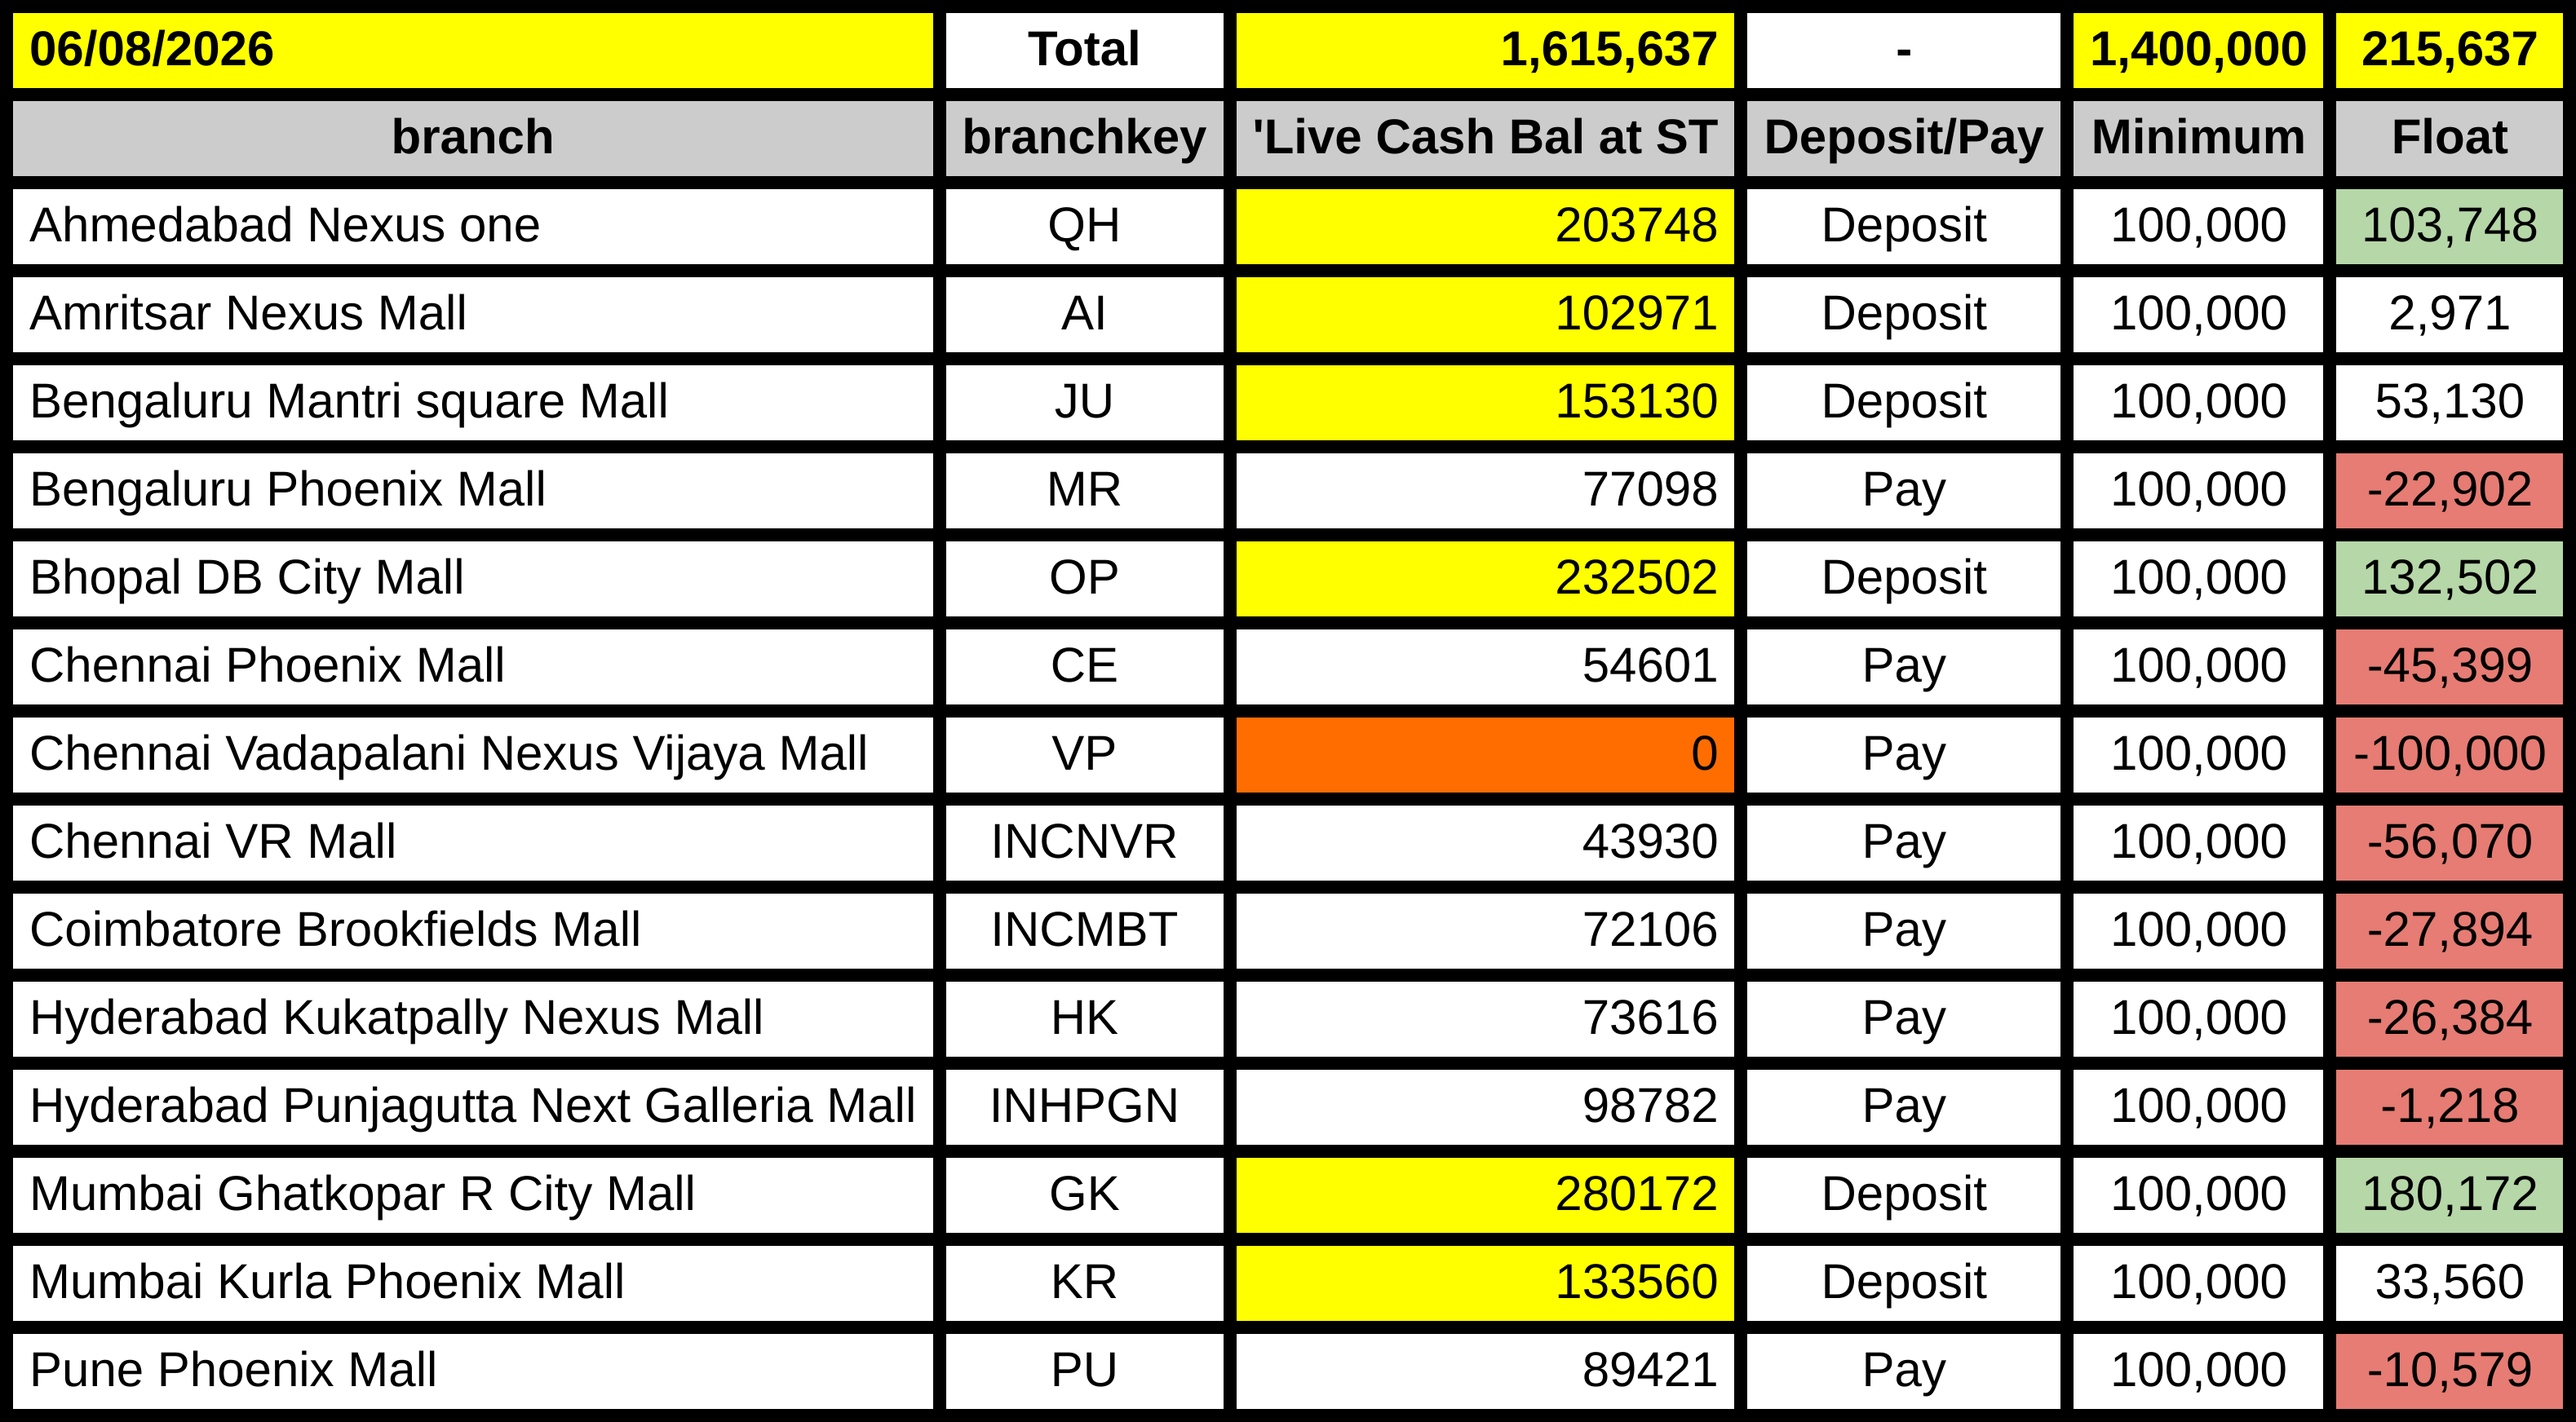
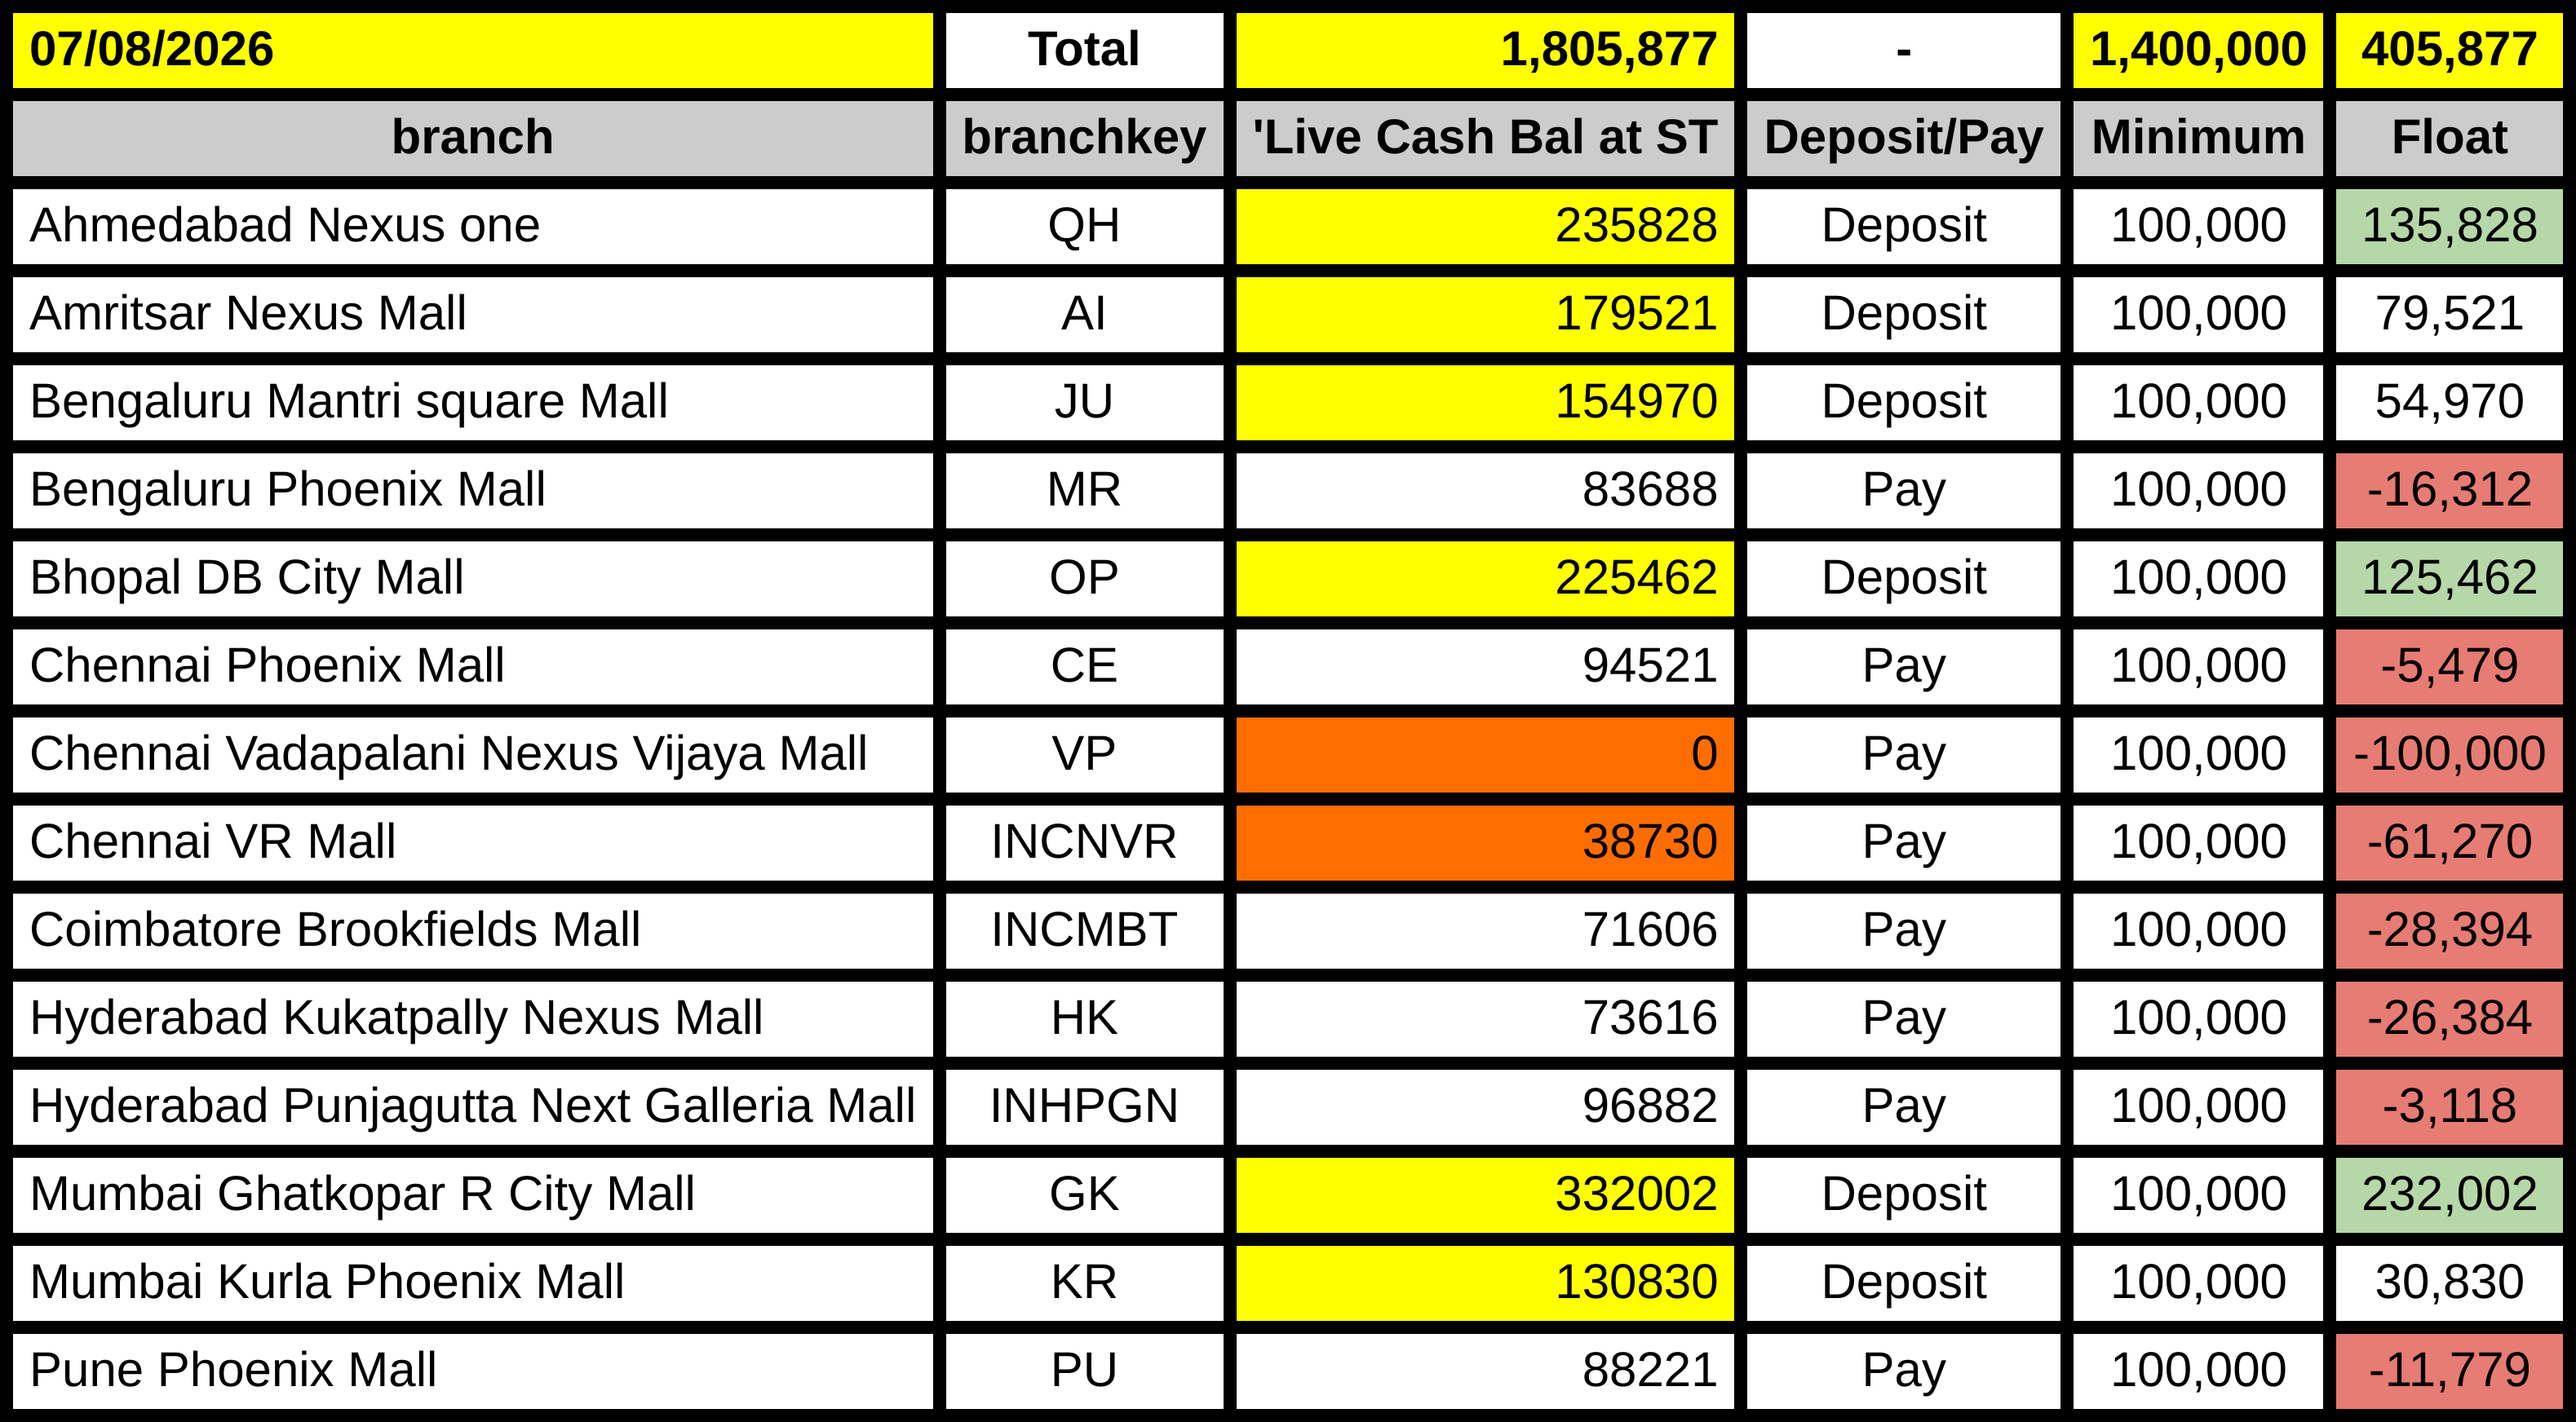
deploy: 1eb6ce62876c9d41067b4594acfaffc291ee4c8b

diff --git a/table.html b/table.html
@@ -21,7 +21,7 @@
           font-family: Arial, sans-serif;
           font-size: 30px;
           white-space: nowrap;
-        ">06/08/2026</td>
+        ">07/08/2026</td>
       
         <td style="
           background-color: #ffffff;
@@ -49,7 +49,7 @@
           font-family: Arial, sans-serif;
           font-size: 30px;
           white-space: nowrap;
-        ">1,615,637</td>
+        ">1,805,877</td>
       
         <td style="
           background-color: #ffffff;
@@ -91,7 +91,7 @@
           font-family: Arial, sans-serif;
           font-size: 30px;
           white-space: nowrap;
-        ">215,637</td>
+        ">405,877</td>
       </tr><tr>
         <td style="
           background-color: #cccccc;
@@ -217,7 +217,7 @@
           font-family: Arial, sans-serif;
           font-size: 30px;
           white-space: nowrap;
-        ">203748</td>
+        ">235828</td>
       
         <td style="
           background-color: #ffffff;
@@ -259,7 +259,7 @@
           font-family: Arial, sans-serif;
           font-size: 30px;
           white-space: nowrap;
-        ">103,748</td>
+        ">135,828</td>
       </tr><tr>
         <td style="
           background-color: #ffffff;
@@ -301,7 +301,7 @@
           font-family: Arial, sans-serif;
           font-size: 30px;
           white-space: nowrap;
-        ">102971</td>
+        ">179521</td>
       
         <td style="
           background-color: #ffffff;
@@ -343,7 +343,7 @@
           font-family: Arial, sans-serif;
           font-size: 30px;
           white-space: nowrap;
-        ">2,971</td>
+        ">79,521</td>
       </tr><tr>
         <td style="
           background-color: #ffffff;
@@ -385,7 +385,7 @@
           font-family: Arial, sans-serif;
           font-size: 30px;
           white-space: nowrap;
-        ">153130</td>
+        ">154970</td>
       
         <td style="
           background-color: #ffffff;
@@ -427,7 +427,7 @@
           font-family: Arial, sans-serif;
           font-size: 30px;
           white-space: nowrap;
-        ">53,130</td>
+        ">54,970</td>
       </tr><tr>
         <td style="
           background-color: #ffffff;
@@ -469,7 +469,7 @@
           font-family: Arial, sans-serif;
           font-size: 30px;
           white-space: nowrap;
-        ">77098</td>
+        ">83688</td>
       
         <td style="
           background-color: #ffffff;
@@ -511,7 +511,7 @@
           font-family: Arial, sans-serif;
           font-size: 30px;
           white-space: nowrap;
-        ">-22,902</td>
+        ">-16,312</td>
       </tr><tr>
         <td style="
           background-color: #ffffff;
@@ -553,7 +553,7 @@
           font-family: Arial, sans-serif;
           font-size: 30px;
           white-space: nowrap;
-        ">232502</td>
+        ">225462</td>
       
         <td style="
           background-color: #ffffff;
@@ -595,7 +595,7 @@
           font-family: Arial, sans-serif;
           font-size: 30px;
           white-space: nowrap;
-        ">132,502</td>
+        ">125,462</td>
       </tr><tr>
         <td style="
           background-color: #ffffff;
@@ -637,7 +637,7 @@
           font-family: Arial, sans-serif;
           font-size: 30px;
           white-space: nowrap;
-        ">54601</td>
+        ">94521</td>
       
         <td style="
           background-color: #ffffff;
@@ -679,7 +679,7 @@
           font-family: Arial, sans-serif;
           font-size: 30px;
           white-space: nowrap;
-        ">-45,399</td>
+        ">-5,479</td>
       </tr><tr>
         <td style="
           background-color: #ffffff;
@@ -794,7 +794,7 @@
         ">INCNVR</td>
       
         <td style="
-          background-color: #ffffff;
+          background-color: #ff6d01;
           color: #000000;
           font-weight: normal;
           font-style: normal;
@@ -805,7 +805,7 @@
           font-family: Arial, sans-serif;
           font-size: 30px;
           white-space: nowrap;
-        ">43930</td>
+        ">38730</td>
       
         <td style="
           background-color: #ffffff;
@@ -847,7 +847,7 @@
           font-family: Arial, sans-serif;
           font-size: 30px;
           white-space: nowrap;
-        ">-56,070</td>
+        ">-61,270</td>
       </tr><tr>
         <td style="
           background-color: #ffffff;
@@ -889,7 +889,7 @@
           font-family: Arial, sans-serif;
           font-size: 30px;
           white-space: nowrap;
-        ">72106</td>
+        ">71606</td>
       
         <td style="
           background-color: #ffffff;
@@ -931,7 +931,7 @@
           font-family: Arial, sans-serif;
           font-size: 30px;
           white-space: nowrap;
-        ">-27,894</td>
+        ">-28,394</td>
       </tr><tr>
         <td style="
           background-color: #ffffff;
@@ -1057,7 +1057,7 @@
           font-family: Arial, sans-serif;
           font-size: 30px;
           white-space: nowrap;
-        ">98782</td>
+        ">96882</td>
       
         <td style="
           background-color: #ffffff;
@@ -1099,7 +1099,7 @@
           font-family: Arial, sans-serif;
           font-size: 30px;
           white-space: nowrap;
-        ">-1,218</td>
+        ">-3,118</td>
       </tr><tr>
         <td style="
           background-color: #ffffff;
@@ -1141,7 +1141,7 @@
           font-family: Arial, sans-serif;
           font-size: 30px;
           white-space: nowrap;
-        ">280172</td>
+        ">332002</td>
       
         <td style="
           background-color: #ffffff;
@@ -1183,7 +1183,7 @@
           font-family: Arial, sans-serif;
           font-size: 30px;
           white-space: nowrap;
-        ">180,172</td>
+        ">232,002</td>
       </tr><tr>
         <td style="
           background-color: #ffffff;
@@ -1225,7 +1225,7 @@
           font-family: Arial, sans-serif;
           font-size: 30px;
           white-space: nowrap;
-        ">133560</td>
+        ">130830</td>
       
         <td style="
           background-color: #ffffff;
@@ -1267,7 +1267,7 @@
           font-family: Arial, sans-serif;
           font-size: 30px;
           white-space: nowrap;
-        ">33,560</td>
+        ">30,830</td>
       </tr><tr>
         <td style="
           background-color: #ffffff;
@@ -1309,7 +1309,7 @@
           font-family: Arial, sans-serif;
           font-size: 30px;
           white-space: nowrap;
-        ">89421</td>
+        ">88221</td>
       
         <td style="
           background-color: #ffffff;
@@ -1351,7 +1351,7 @@
           font-family: Arial, sans-serif;
           font-size: 30px;
           white-space: nowrap;
-        ">-10,579</td>
+        ">-11,779</td>
       </tr>
   </table>
 </body>
